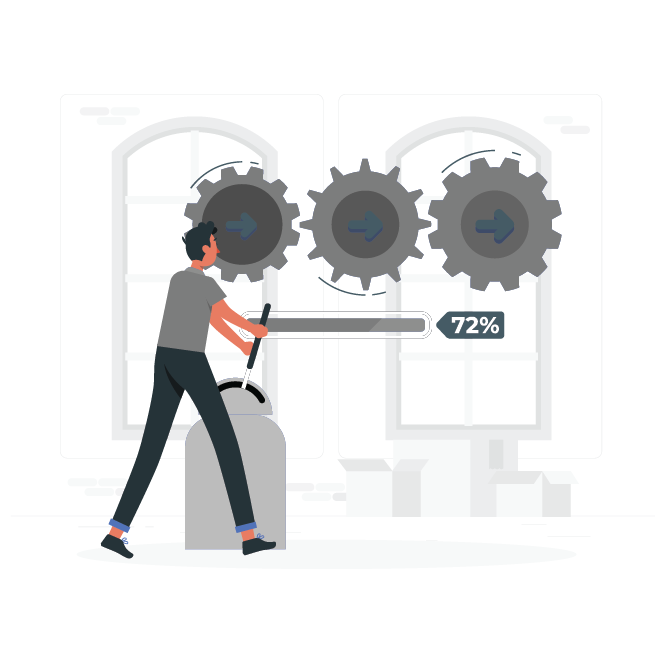
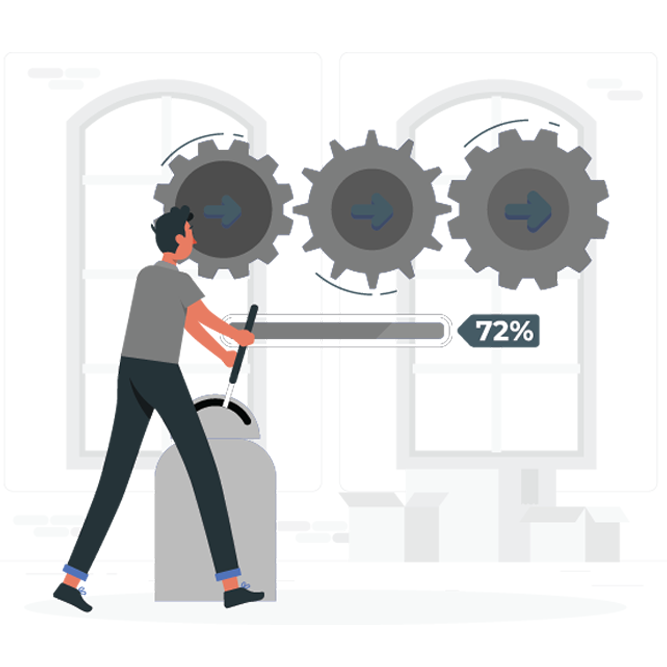
Manufacturing page changed done

Changed region(s): [[0.06, 0.1199, 0.9295, 0.9295]]

diff --git a/manufacturing-capabilities.php b/manufacturing-capabilities.php
@@ -222,7 +222,7 @@
                                     </li>
                                 </ul>
                                  <figure class="mt-s-image text-center mt-4">
-                                   <img src="assets/images/cutting-sewing.png" alt="" width="70%" class="img-fluid aos-init aos-animate" data-aos="fade-left" data-aos-duration="1000">
+                                   <img src="assets/images/cutting-sewing.png" alt="" width="50%" class="img-fluid aos-init aos-animate" data-aos="fade-left" data-aos-duration="1000">
                                 </figure>
                               </div>
                            </div>
@@ -247,7 +247,7 @@
                                     </li>
                                 </ul>
                                 <figure class="mt-s-image text-center mt-4">
-                                   <img src="assets/images/quality-control.png" alt="" width="70%" class="img-fluid aos-init" data-aos="fade-right" data-aos-duration="1000">
+                                   <img src="assets/images/quality-control.png" alt="" width="50%" class="img-fluid aos-init" data-aos="fade-right" data-aos-duration="1000">
                                 </figure>
                               </div>
                            </div>
@@ -277,7 +277,7 @@
                                     </li>
                                 </ul>
                                 <figure class="mt-s-image text-center mt-4">
-                                   <img src="assets/images/customization-capabilities-img.png" alt="" width="70%" class="img-fluid aos-init aos-animate" data-aos="fade-left" data-aos-duration="1000">
+                                   <img src="assets/images/customization-capabilities-img.png" alt="" width="50%" class="img-fluid aos-init aos-animate" data-aos="fade-left" data-aos-duration="1000">
                                 </figure>
                               </div>
                            </div>
@@ -304,7 +304,7 @@
                                     </li>
                                 </ul>
                                  <figure class="mt-s-image text-center mt-4">
-                                   <img src="assets/images/production-capacity.png" alt="" width="70%" class="img-fluid aos-init" data-aos="fade-right" data-aos-duration="1000">
+                                   <img src="assets/images/production-capacity.png" alt="" width="50%" class="img-fluid aos-init" data-aos="fade-right" data-aos-duration="1000">
                                 </figure>
                               </div>
                            </div>
@@ -331,7 +331,7 @@
                                     </li>
                                 </ul>
                                 <figure class="mt-s-image text-center mt-4">
-                                   <img src="assets/images/technology-integration.png" alt="" width="70%" class="img-fluid aos-init aos-animate" data-aos="fade-left" data-aos-duration="1000">
+                                   <img src="assets/images/technology-integration.png" alt="" width="50%" class="img-fluid aos-init aos-animate" data-aos="fade-left" data-aos-duration="1000">
                                 </figure>
                               </div>
                            </div>
